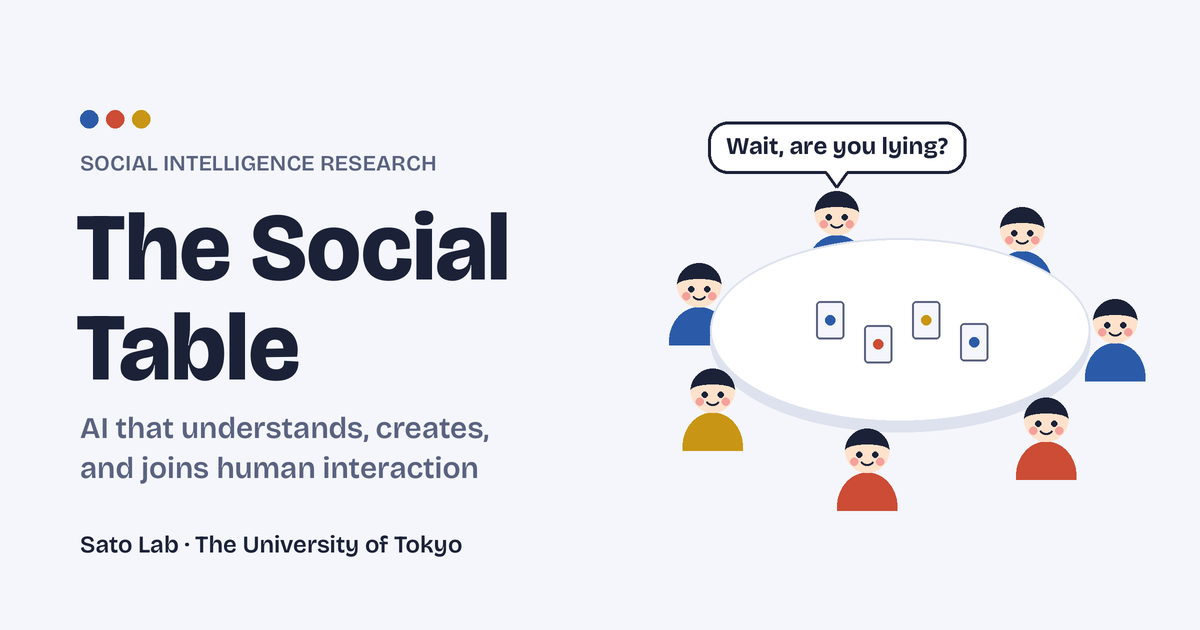
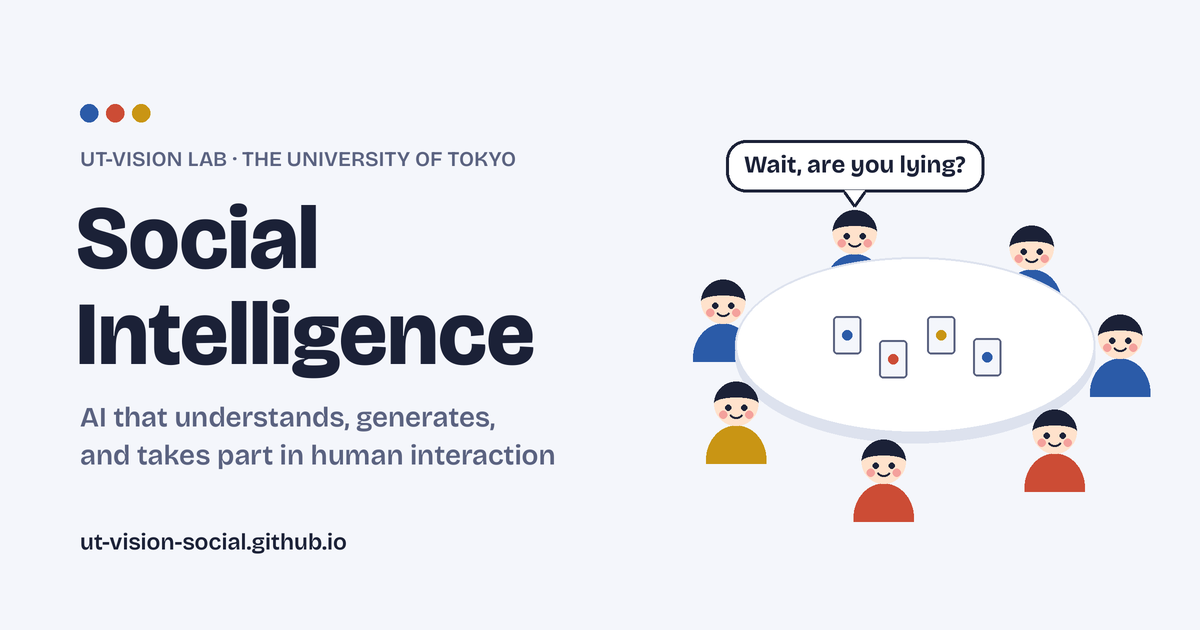
Rename to Social Intelligence @ UT-Vision; clearer section names

diff --git a/index.html b/index.html
@@ -3,14 +3,14 @@
 <head>
 <meta charset="utf-8">
 <meta name="viewport" content="width=device-width, initial-scale=1, viewport-fit=cover">
-<title>The Social Table · Sato Lab</title>
-<meta name="description" content="Social intelligence research at Sato Lab, The University of Tokyo: AI that understands, creates, and joins human interaction.">
+<title>Social Intelligence @ UT-Vision</title>
+<meta name="description" content="Social intelligence research at UT-Vision Lab, The University of Tokyo: AI that understands, generates, and takes part in human interaction.">
 <link rel="canonical" href="https://ut-vision-social.github.io/">
 <link rel="icon" href="favicon.svg" type="image/svg+xml">
 <meta property="og:type" content="website">
-<meta property="og:site_name" content="The Social Table">
-<meta property="og:title" content="The Social Table · Sato Lab, The University of Tokyo">
-<meta property="og:description" content="Social intelligence research at Sato Lab, The University of Tokyo: AI that understands, creates, and joins human interaction.">
+<meta property="og:site_name" content="Social Intelligence @ UT-Vision">
+<meta property="og:title" content="Social Intelligence @ UT-Vision · The University of Tokyo">
+<meta property="og:description" content="Social intelligence research at UT-Vision Lab, The University of Tokyo: AI that understands, generates, and takes part in human interaction.">
 <meta property="og:url" content="https://ut-vision-social.github.io/">
 <meta property="og:image" content="https://ut-vision-social.github.io/images/og.png">
 <meta property="og:image:width" content="1200">
@@ -18,6 +18,8 @@
 <meta name="twitter:card" content="summary_large_image">
 <meta name="twitter:image" content="https://ut-vision-social.github.io/images/og.png">
 <style>:root{padding-top:env(safe-area-inset-top,0px);padding-bottom:env(safe-area-inset-bottom,0px)}</style>
+<title>Social Intelligence @ UT-Vision</title>
+<meta name="claude:viewport-fit-sides" content="cover">
 <link rel="preconnect" href="https://fonts.googleapis.com">
 <link rel="preconnect" href="https://fonts.gstatic.com" crossorigin>
 <link rel="stylesheet" href="https://fonts.googleapis.com/css2?family=Bricolage+Grotesque:opsz,wght@12..96,500;12..96,600;12..96,700;12..96,800&family=Literata:ital,opsz,wght@0,7..72,400;0,7..72,500;1,7..72,400&family=Kalam:wght@400&display=swap">
@@ -261,6 +263,8 @@ footer p { margin: 0; }
   .contact-card { grid-template-columns: 1fr; }
 }
 @media (max-width: 560px) {
+  .bar nav { gap: 0; margin-left: -7px; }
+  .bar nav a { padding: 4px 7px; font-size: 0.82rem; }
   .pillar-head { grid-template-columns: 1fr; }
   .paper { padding: 16px; border-radius: 18px; }
   .people { grid-template-columns: 1fr; }
@@ -278,11 +282,11 @@ footer p { margin: 0; }
 <body>
 <header class="bar">
   <div class="wrap">
-    <a class="mark" href="#top"><span class="mark-dots" aria-hidden="true"><i class="read"></i><i class="create"></i><i class="join"></i></span>The Social Table</a>
+    <a class="mark" href="#top"><span class="mark-dots" aria-hidden="true"><i class="read"></i><i class="create"></i><i class="join"></i></span>Social Intelligence @ UT-Vision</a>
     <nav aria-label="Sections">
-      <a href="#read">Read</a>
-      <a href="#create">Create</a>
-      <a href="#join">Join</a>
+      <a href="#understanding">Understanding</a>
+      <a href="#generation">Generation</a>
+      <a href="#agents">Agents</a>
       <a href="#contact">Contact</a>
     </nav>
   </div>
@@ -291,13 +295,13 @@ footer p { margin: 0; }
 <section class="hero" id="top">
   <div class="wrap">
     <div>
-      <p class="eyebrow label"><a href="https://www.ut-vision.org/">Sato Lab · The University of Tokyo</a></p>
-      <h1>The Social Table<span>AI that understands, creates, and joins human interaction</span></h1>
+      <p class="eyebrow label"><a href="https://www.ut-vision.org/">UT-Vision Lab · The University of Tokyo</a></p>
+      <h1>Social Intelligence<span>AI that understands, generates, and takes part in human interaction</span></h1>
       <p class="lede">Everyday social life happens between several people at once. We infer what others know and intend, notice when something does not add up, and settle on plans together. This research line studies how multimodal AI can understand such interaction, generate it faithfully, and take part in it.</p>
       <ul class="trio">
-        <li><a href="#read"><span class="dot read"></span>Read the room</a></li>
-        <li><a href="#create"><span class="dot create"></span>Create the scene</a></li>
-        <li><a href="#join"><span class="dot join"></span>Join the conversation</a></li>
+        <li><a href="#understanding"><span class="dot read"></span>Social Understanding</a></li>
+        <li><a href="#generation"><span class="dot create"></span>Social Generation</a></li>
+        <li><a href="#agents"><span class="dot join"></span>Social Agents</a></li>
       </ul>
     </div>
     <div class="stage" id="stage">
@@ -309,10 +313,10 @@ footer p { margin: 0; }
 </section>
 
 <main>
-  <section class="pillar read" id="read">
+  <section class="pillar read" id="understanding">
     <div class="wrap">
       <div class="pillar-head">
-        <span class="tag">Read the room</span>
+        <span class="tag">Social Understanding</span>
         <p>Understanding multi-party interaction: who is addressing whom, what each person knows, when a claim is a lie, and what behaviour actually reveals about someone.</p>
       </div>
       <div class="papers">
@@ -386,10 +390,10 @@ footer p { margin: 0; }
     </div>
   </section>
 
-  <section class="pillar create" id="create">
+  <section class="pillar create" id="generation">
     <div class="wrap">
       <div class="pillar-head">
-        <span class="tag">Create the scene</span>
+        <span class="tag">Social Generation</span>
         <p>Generating video in which several people interact exactly as directed, and characters that respond when a viewer engages with them.</p>
       </div>
       <div class="papers">
@@ -432,10 +436,10 @@ footer p { margin: 0; }
     </div>
   </section>
 
-  <section class="pillar join" id="join">
+  <section class="pillar join" id="agents">
     <div class="wrap">
       <div class="pillar-head">
-        <span class="tag">Join the conversation</span>
+        <span class="tag">Social Agents</span>
         <p>Agents that take part in conversations themselves, and reach outcomes that work for everyone involved.</p>
       </div>
       <div class="papers">
@@ -486,7 +490,7 @@ footer p { margin: 0; }
 
 <footer>
   <div class="wrap">
-    <p>Sato Lab, Institute of Industrial Science, The University of Tokyo</p>
+    <p>UT-Vision Lab, Institute of Industrial Science, The University of Tokyo</p>
     <p>Last updated October 2026</p>
   </div>
 </footer>

diff --git a/README.md b/README.md
@@ -1,6 +1,6 @@
-# The Social Table
+# Social Intelligence @ UT-Vision
 
-Project hub for social intelligence research at Sato Lab, The University of Tokyo.
+Project hub for social intelligence research at UT-Vision Lab, The University of Tokyo.
 
 Live site: https://ut-vision-social.github.io/
 
